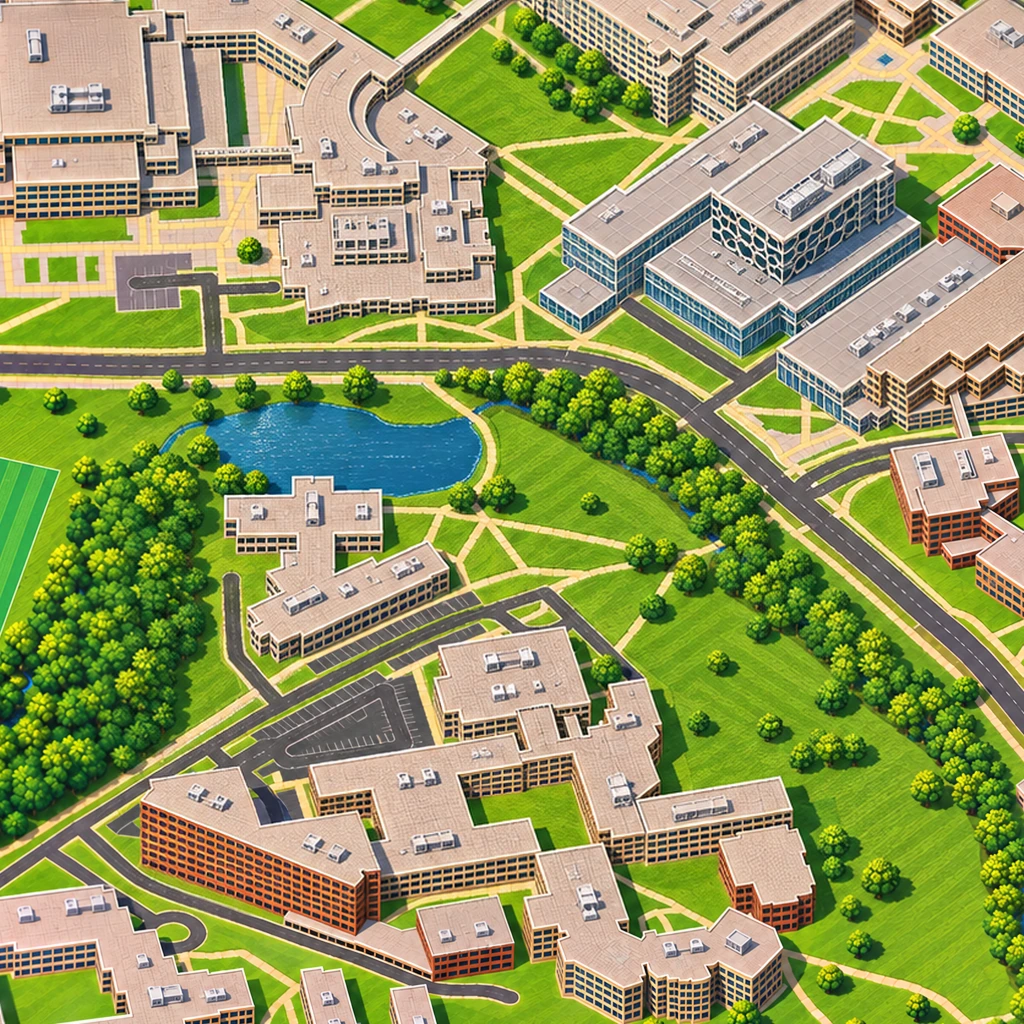
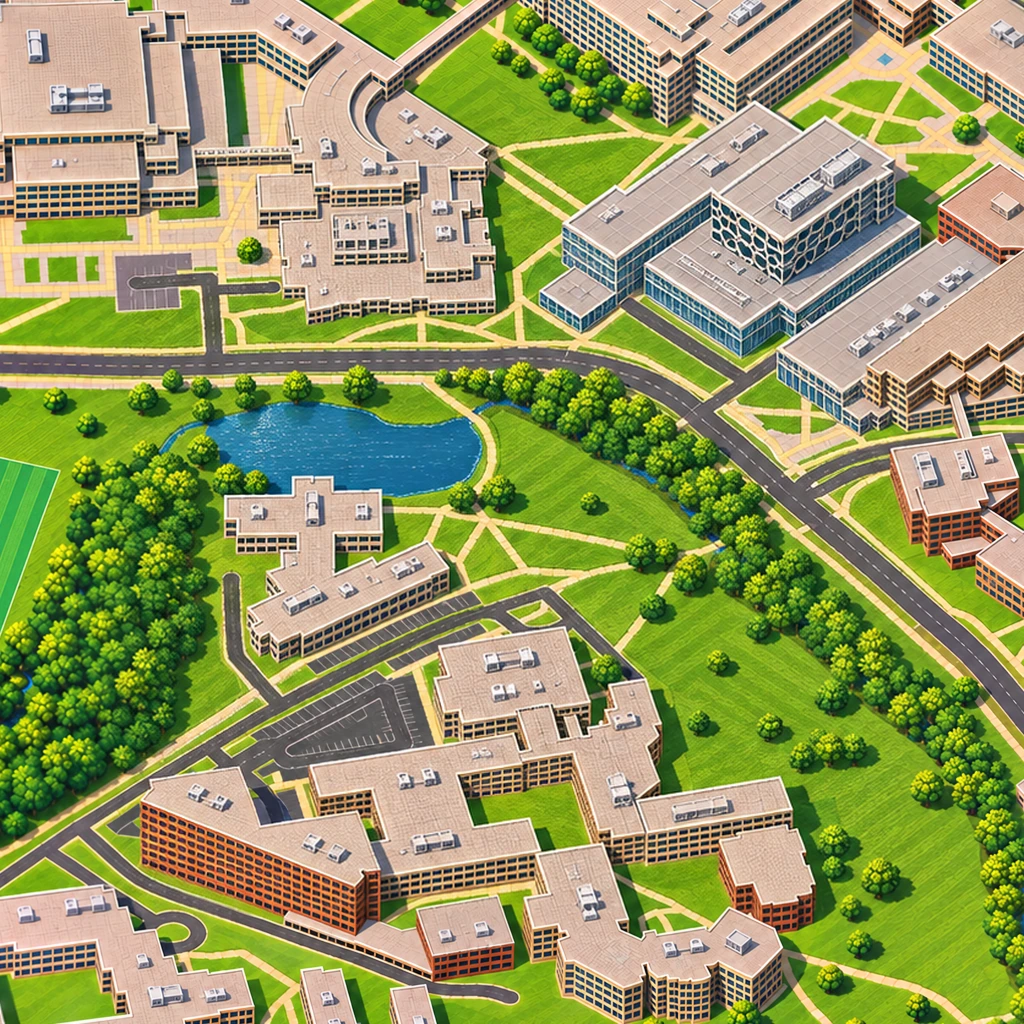
Campus fixes: eight repaint overlays (seven border joins, parking colour) via ElevenLabs gpt-image-2.5; overlay docs
Claude-Session: https://claude.ai/code/session_01VqAdQDSSPKBnYjiqgKN3n5

Changed region(s): [[0.0312, 0.0, 0.9688, 0.125], [0.8125, 0.0938, 0.8438, 0.125]]

diff --git a/docs/ART_PIPELINE.md b/docs/ART_PIPELINE.md
@@ -167,6 +167,29 @@ is above 1.8 and also above the accepted art's own ratio at that block by more t
 band edge is an arbitrary line through untouched art, so a kerb or shoreline that happens to lie on it is not a defect
 of the repair. In a junction, the parts of a band edge that the other band crosses are skipped.
 
+## Repaint overlays (publish-time fixes)
+
+`pipeline/art_overlay.py` handles small fixes that are easier to repaint than to request as whole tiles: a join where two
+tiles painted different content, ghosting left by the border cross-fade, or one surface painted in the wrong colour.
+
+1. `make <id> --box x0,y0,w,h --seam v|h` (or `--cls parking`) cuts a window from **what is published now** (the
+   harmonised art plus every overlay accepted so far) and writes `art/overlays/<id>_input.png` (upscaled to 2048 px for
+   the model), `<id>_window.png` and a soft `<id>_mask.png`. Seam masks are a band of ±150 px around the join (full
+   strength within ±72 px); region masks are the class pixels grown by 8 px.
+2. The window is repainted by an image model with a Change / Preserve / Constraints prompt. Since 16 Nov 2026 this is
+   done directly through the ElevenLabs connector (model `gpt-image-2.5-sunburst`, 2048 px output, quality high); the
+   input is fetched from its raw GitHub URL and the result downloaded from `elevenlabsusercontent.com`.
+3. `qa <id> <file>` checks the return at window size: aspect, global shift against the input (limit 1.5 px), per-block
+   shift inside the mask (3 px), colour agreement where the mask fades out, and 4-16 px structure agreement. It writes
+   `art/overlays/<id>_qa.png` (input, return, composite) for review.
+4. `accept <id> <file> --model ... --generation ...` stores the original in `art/returned/overlays/` and the window-size
+   image in `art/overlays/<id>.png`, and records model, generation id, prompt summary, hashes and the QA numbers in
+   `art/overlays.json`.
+5. `publish_tiles.py` applies accepted overlays in list order after `harmonize_art`. Seam overlays are colour-matched to
+   the map first (detail from the repaint, colour coarser than 40 px from the map), so a model's brightness drift does
+   not show; region overlays keep their own colour. `art/accepted/` is never changed, and deleting an entry from
+   `art/overlays.json` undoes that fix.
+
 ## Statuses (`art/batches.json`)
 
 - **Batch:** `draft` (dependencies not accepted yet; do not send) -> `requested` -> `received` -> `complete`, or
